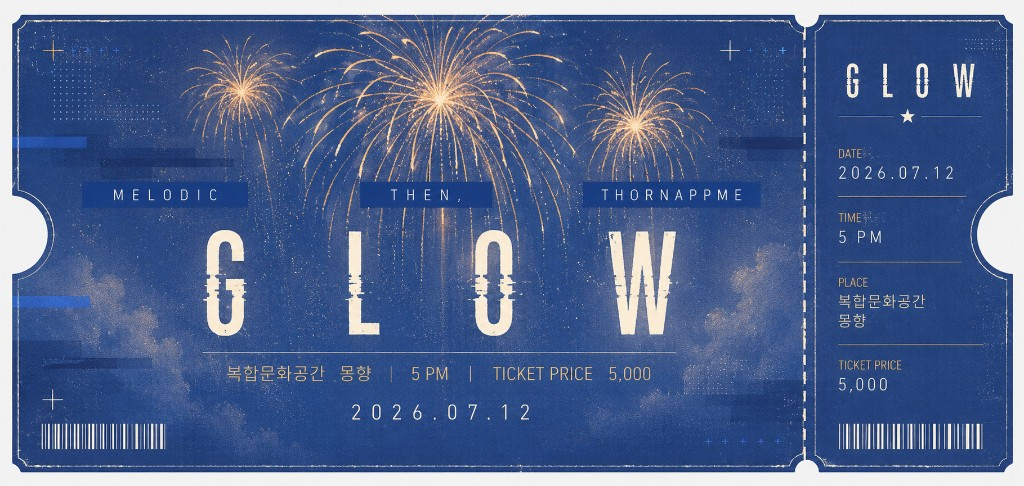
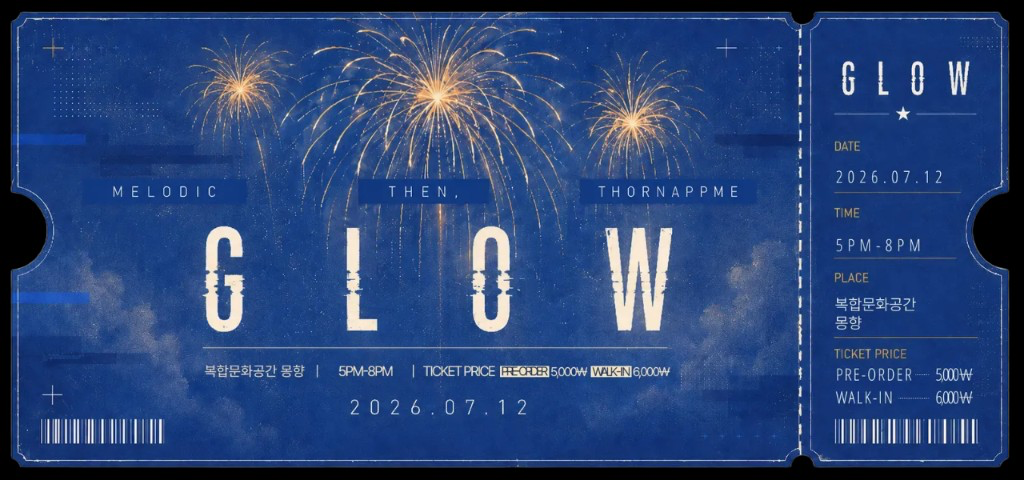
Update GLOW ticket artwork with July 12 schedule and pricing.
Replace glow-ticket.png and match TicketTransition aspect ratio to 1024×480.

diff --git a/src/components/TicketTransition.tsx b/src/components/TicketTransition.tsx
@@ -144,7 +144,7 @@ const css = `
 }
 
 .tt_ticket--vertical{
-  aspect-ratio: 1024 / 486;
+  aspect-ratio: 1024 / 480;
 }
 
 .tt_ticket--horizontal{
